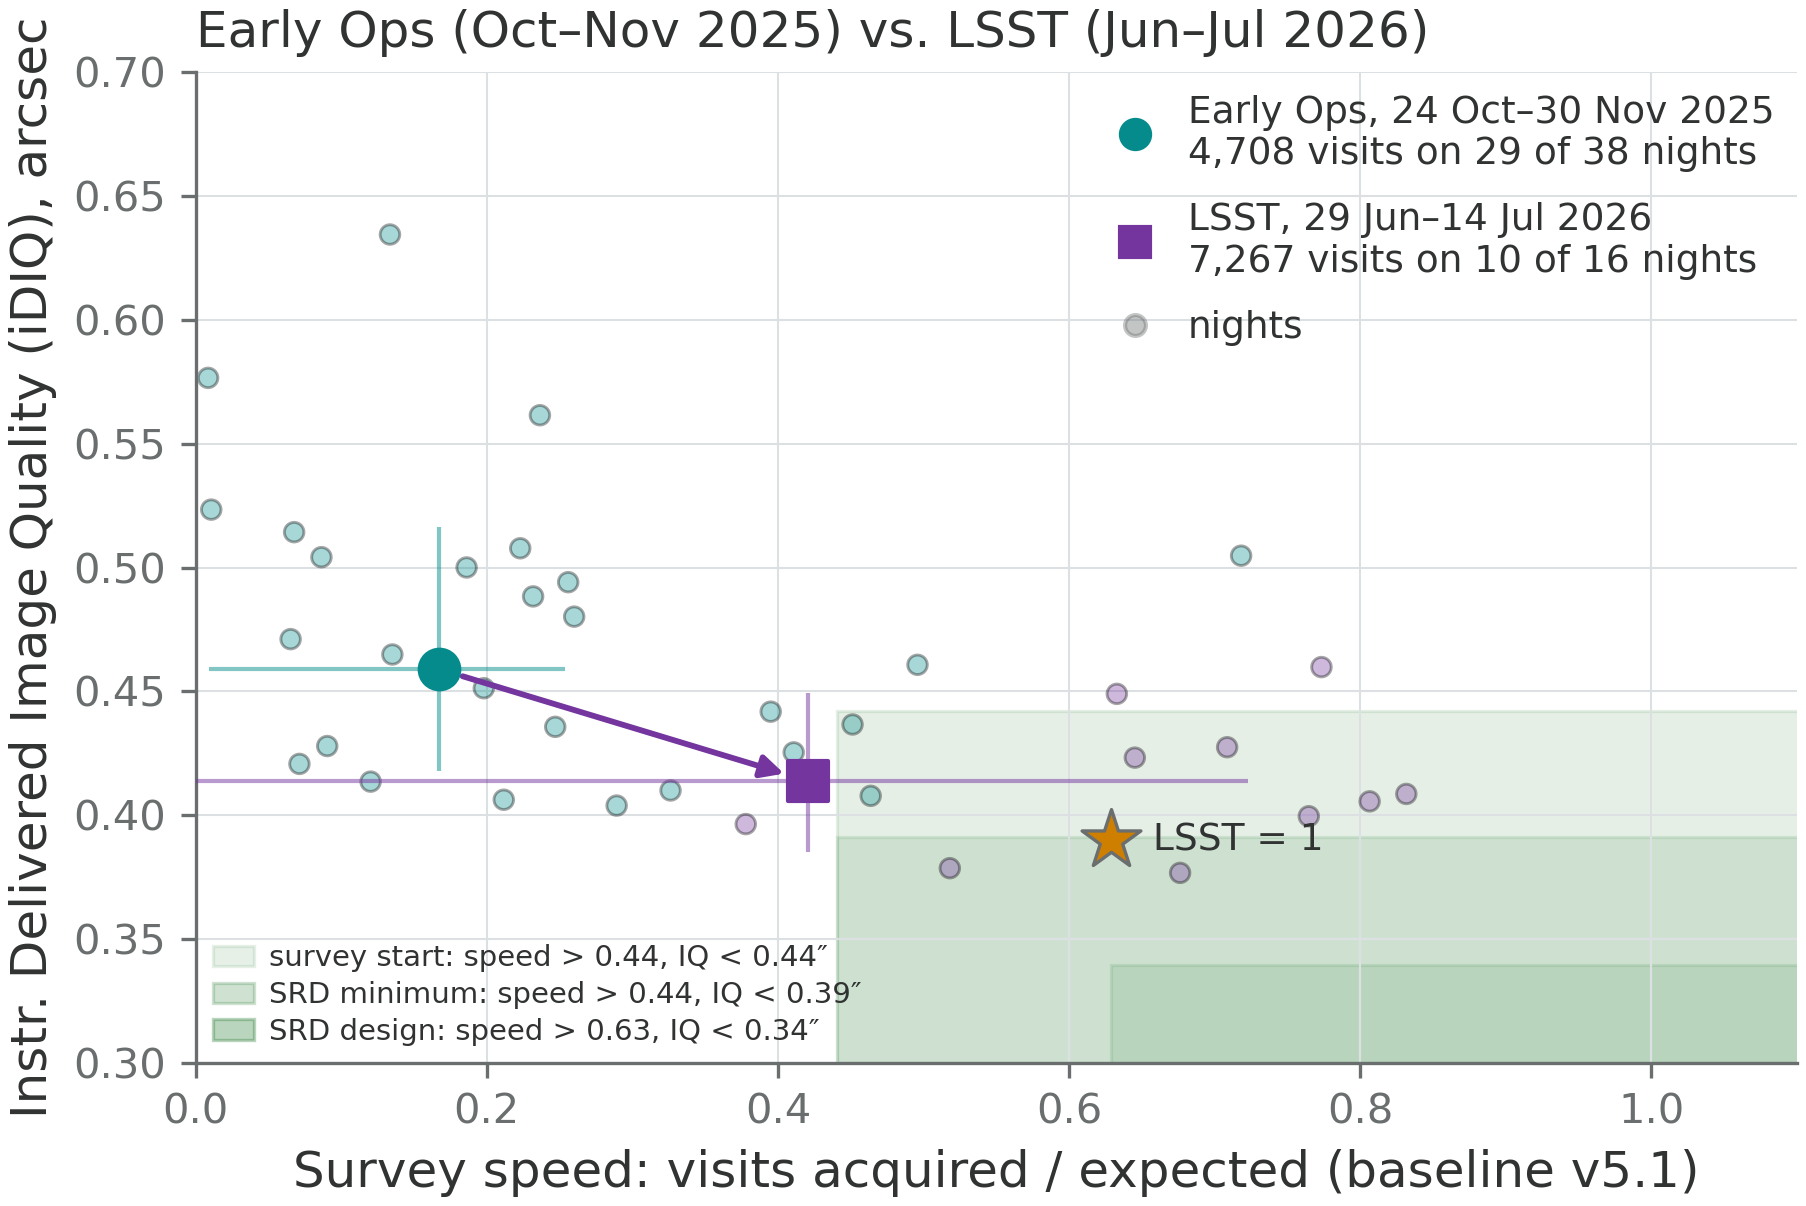
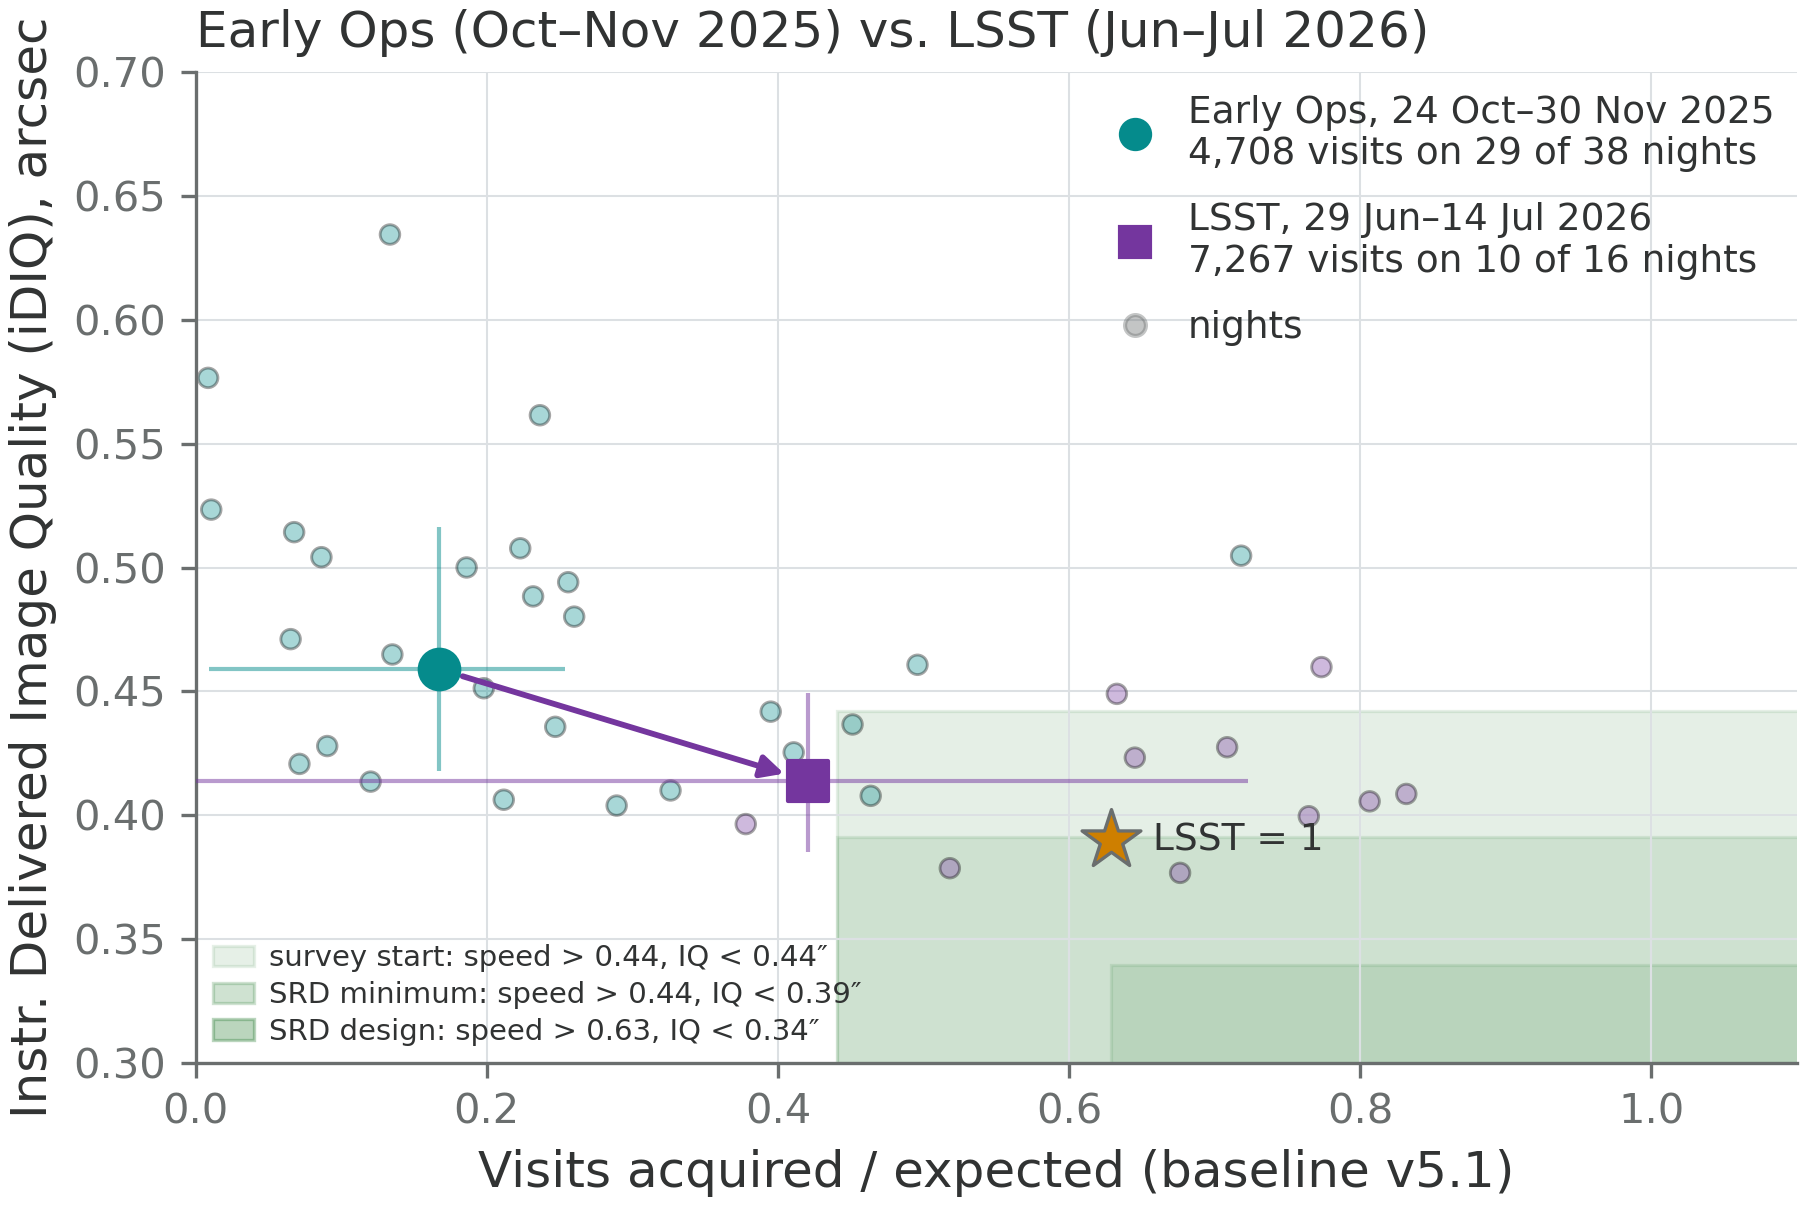
observatory_high_level_performance: shorter x label "Visits acquired / expected"
Drop the "Survey speed:" prefix from the static x label; the baseline tag
stays. PNGs regenerated, including the white-background talk figure.

Generated with AI

Changed region(s): [[0.155, 0.9511, 0.9302, 1.0]]

diff --git a/observatory_high_level_performance/ohlp/static.py b/observatory_high_level_performance/ohlp/static.py
@@ -322,9 +322,7 @@ def build_static_figure(
         # Axes --------------------------------------------------------------- #
         ax.set_xlim(0, 1.1)
         ax.set_ylim(yref["ymin"], yref["ymax"])
-        ax.set_xlabel(
-            "Survey speed: visits acquired / expected (%s)" % ref.BASELINE_LABEL
-        )
+        ax.set_xlabel("Visits acquired / expected (%s)" % ref.BASELINE_LABEL)
         ax.set_ylabel(Y_LABELS_SHORT.get(iq_col, IQ_COLUMNS[iq_col]))
         if title:
             ax.set_title(title, color=COLORS["ink"], loc="left", pad=6)
